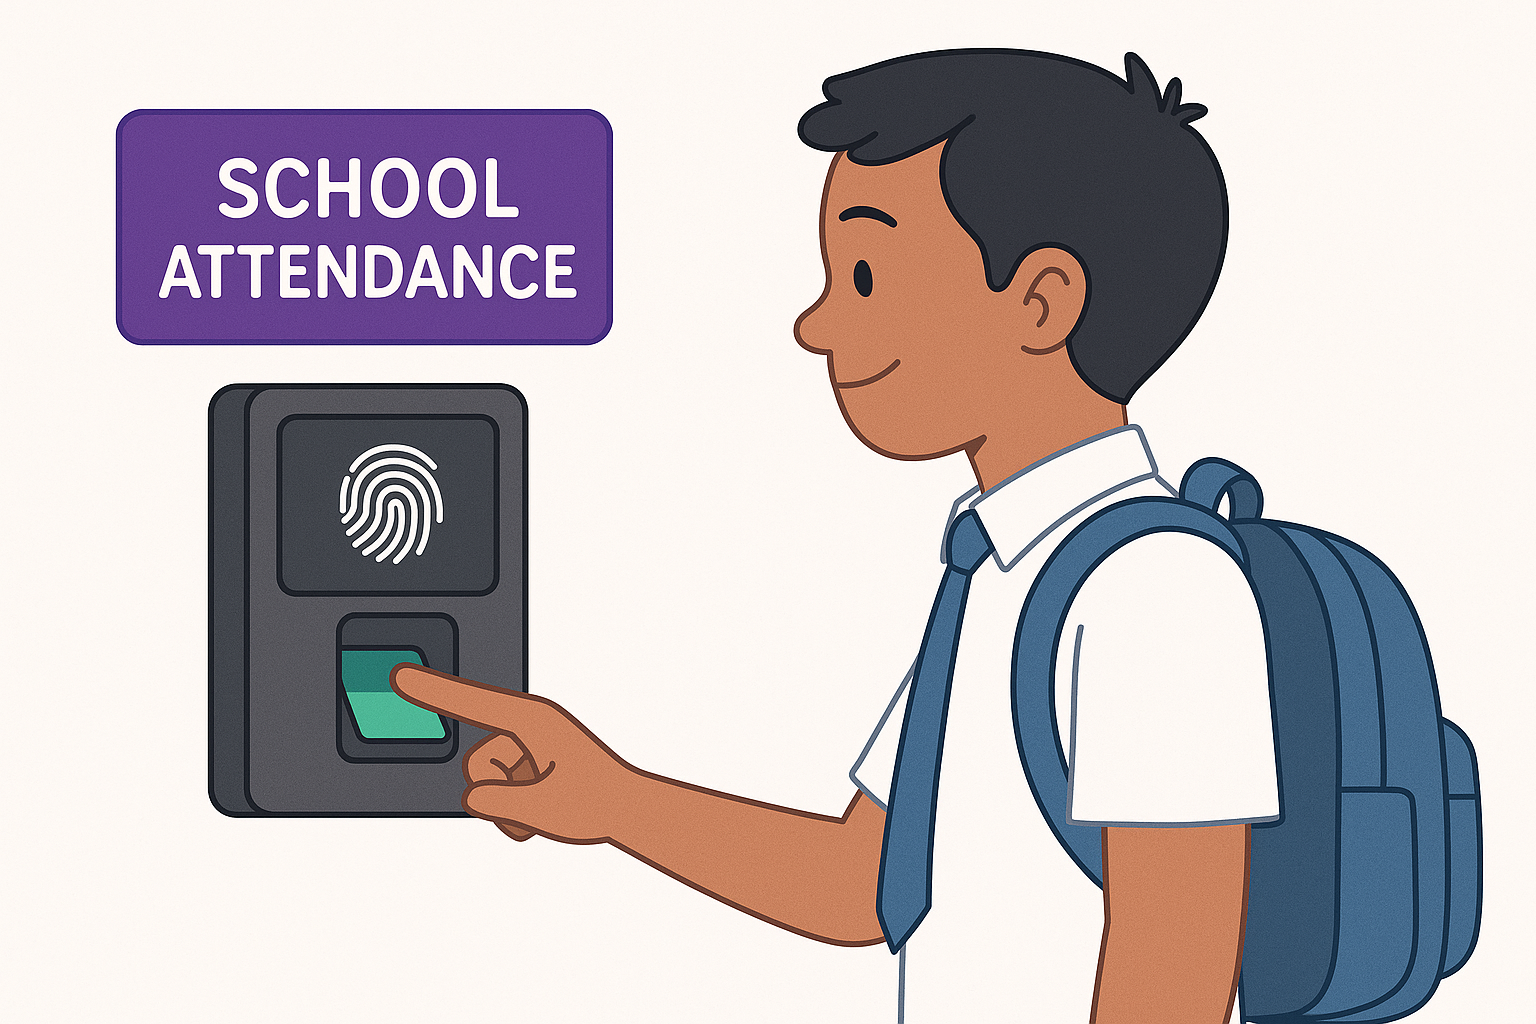
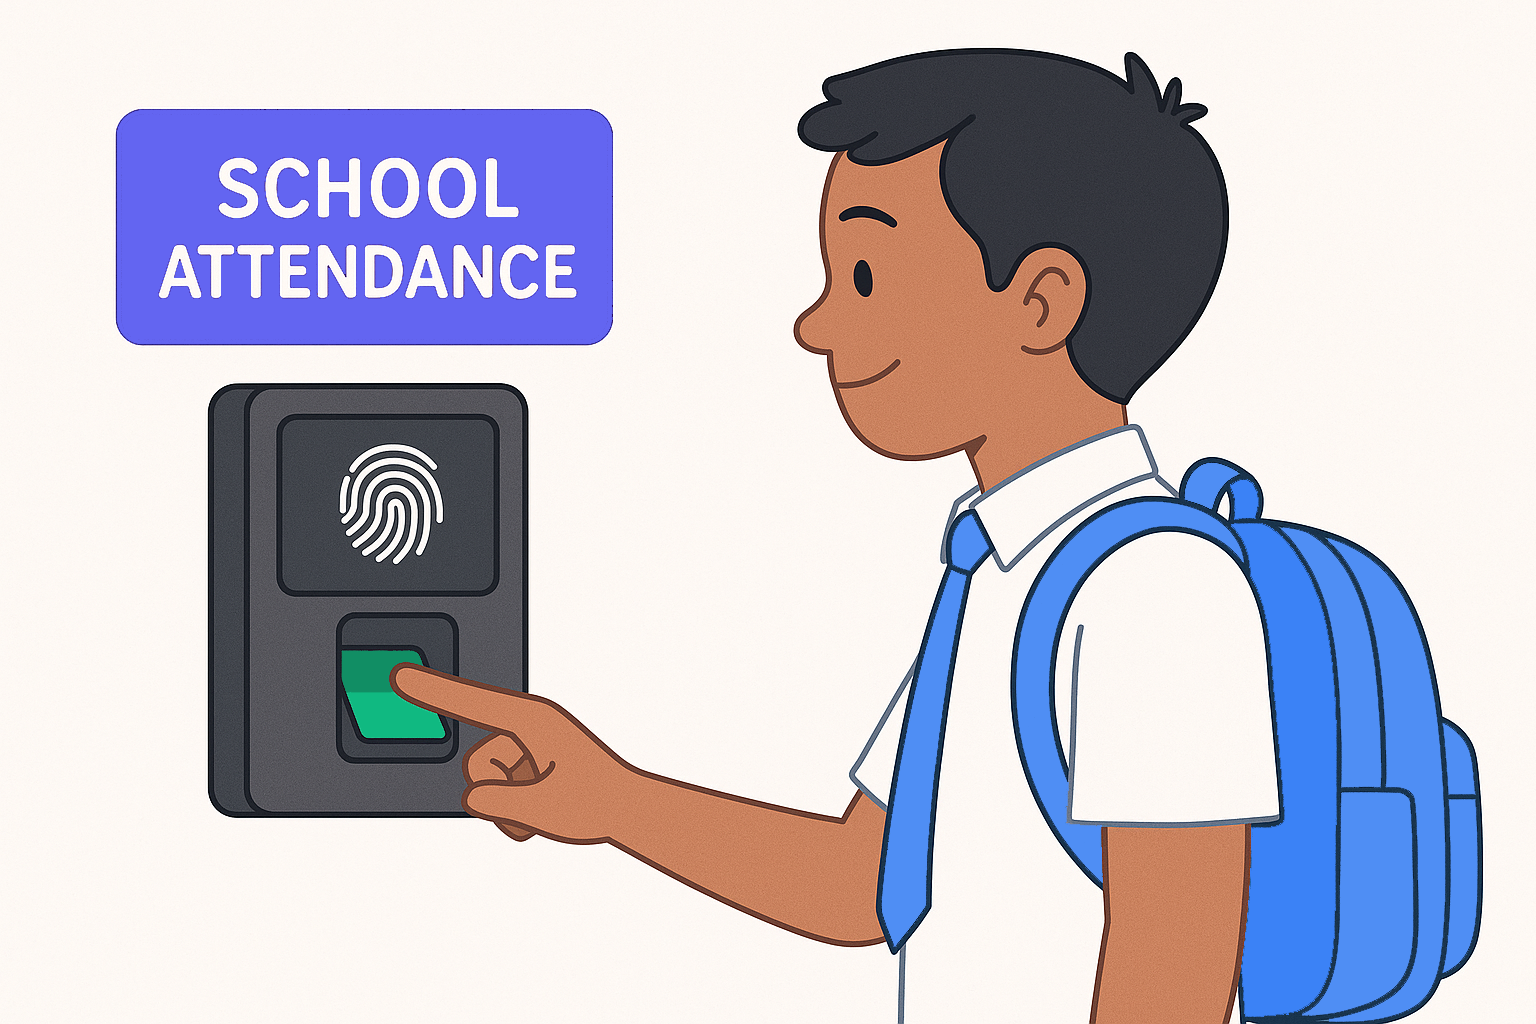
update

diff --git a/src/pages/public/LandingPage.tsx b/src/pages/public/LandingPage.tsx
@@ -50,7 +50,7 @@ const LandingPage = () => {
                                 <Button
                                     label="Daftar"
                                     type="button"
-                                    onClick={() => navigate('/register')}
+                                    onClick={() => navigate('/login')}
                                     outlined
                                 />
                             </div>
@@ -118,8 +118,8 @@ const LandingPage = () => {
                                 <div className="text-600">Untuk sekolah dengan kebutuhan dasar presensi.</div>
                                 <hr className="my-3 mx-0 border-top-1 border-bottom-none border-300" />
                                 <div className="flex align-items-center">
-                                    <span className="font-bold text-2xl text-900">$9</span>
-                                    <span className="ml-2 font-medium text-600">per month</span>
+                                    <span className="font-bold text-2xl text-900">Rp.150.000</span>
+                                    <span className="ml-2 font-medium text-600">per bulan</span>
                                 </div>
                                 <hr className="my-3 mx-0 border-top-1 border-bottom-none border-300" />
                                 <ul className="list-none p-0 m-0 flex-grow-1">
@@ -145,8 +145,8 @@ const LandingPage = () => {
                                 <div className="text-600">Untuk sekolah yang membutuhkan fitur presensi lebih canggih.</div>
                                 <hr className="my-3 mx-0 border-top-1 border-bottom-none border-300" />
                                 <div className="flex align-items-center">
-                                    <span className="font-bold text-2xl text-900">$29</span>
-                                    <span className="ml-2 font-medium text-600">per month</span>
+                                    <span className="font-bold text-2xl text-900">Rp.300.000</span>
+                                    <span className="ml-2 font-medium text-600">per bulan</span>
                                 </div>
                                 <hr className="my-3 mx-0 border-top-1 border-bottom-none border-300" />
                                 <ul className="list-none p-0 m-0 flex-grow-1">
@@ -180,8 +180,8 @@ const LandingPage = () => {
                                 <div className="text-600">Untuk sekolah besar dengan kebutuhan pengelolaan presensi tingkat lanjut.</div>
                                 <hr className="my-3 mx-0 border-top-1 border-bottom-none border-300" />
                                 <div className="flex align-items-center">
-                                    <span className="font-bold text-2xl text-900">$49</span>
-                                    <span className="ml-2 font-medium text-600">per month</span>
+                                    <span className="font-bold text-2xl text-900">Rp.450.000</span>
+                                    <span className="ml-2 font-medium text-600">per bulan</span>
                                 </div>
                                 <hr className="my-3 mx-0 border-top-1 border-bottom-none border-300" />
                                 <ul className="list-none p-0 m-0 flex-grow-1">

diff --git a/src/pages/admin/school-management/AdminSchoolPage.tsx b/src/pages/admin/school-management/AdminSchoolPage.tsx
@@ -3,7 +3,6 @@ import { useEffect, useState } from 'react';
 import { DataTable } from 'primereact/datatable';
 import { Column } from 'primereact/column';
 import { Button } from 'primereact/button';
-import { InputText } from 'primereact/inputtext';
 import { useNavigate } from 'react-router-dom';
 import AdminCreateSchoolModal from '../../../components/admin/AdminCreateSchoolModal';
 import SchoolService from '../../../services/schoolService';
@@ -157,20 +156,24 @@ const AdminSchoolPage = () => {
                 <Column
                     header="Aksi"
                     body={(rowData) => (
-                        <Button
-                            icon="pi pi-sign-in"
-                            label="Masuk"
-                            loading={schoolLoading}
-                            onClick={async () => {
-                                try {
-                                    localStorage.setItem("targetSchoolId", rowData.id);
-                                    localStorage.setItem("targetSchoolName", formatSchoolName(rowData.name));
-                                    updateUser({ school_id: rowData.id });
-                                } catch (error) {
-                                    console.error("Gagal masuk ke sekolah:", error);
-                                }
-                            }}
-                        />
+                        <div className='flex gap-1'>
+                            <Button
+                                icon="pi pi-sign-in"
+                                label="Masuk"
+                                loading={schoolLoading}
+                                onClick={async () => {
+                                    try {
+                                        localStorage.setItem("targetSchoolId", rowData.id);
+                                        localStorage.setItem("targetSchoolName", formatSchoolName(rowData.name));
+                                        updateUser({ school_id: rowData.id });
+                                    } catch (error) {
+                                        console.error("Gagal masuk ke sekolah:", error);
+                                    }
+                                }}
+                            />
+                            <Button icon="pi pi-trash" severity='danger' label='Hapus' />
+                        </div>
+
 
                     )}
                 />

diff --git a/src/routes.tsx b/src/routes.tsx
@@ -22,7 +22,7 @@ const CustomEventPage = lazy(() => import('./pages/school/dashboard/attendance/S
 const ClassroomListPage = lazy(() => import('./pages/school/dashboard/classgroup/SchoolClassgroupPage'));
 const DefaultAttendanceTimePage = lazy(() => import('./pages/school/dashboard/attendance/SchoolSetAttendanceTimePage'));
 const AbsenceStatusListPage = lazy(() => import('./pages/school/dashboard/attendance/SchoolAbsenceStatusPage'));
-const AdminDashboard = lazy(() => import('./pages/admin/dashboard/MainPage'));
+const AdminDashboard = lazy(() => import('./pages/admin/dashboard/AdminDashboard'));
 const SchoolProfilePage = lazy(() => import('./pages/school/profile/SchoolProfilePage'));
 const PublicLayout = lazy(() => import('./layout/PublicLayout'));
 const LandingPage = lazy(() => import('./pages/public/LandingPage'));

diff --git a/src/routes_lazy.tsx b/src/routes_lazy.tsx
@@ -22,7 +22,7 @@ const CustomEventPage = lazy(() => import('./pages/school/dashboard/attendance/S
 const ClassroomListPage = lazy(() => import('./pages/school/dashboard/classgroup/SchoolClassgroupPage'));
 const DefaultAttendanceTimePage = lazy(() => import('./pages/school/dashboard/attendance/SchoolSetAttendanceTimePage'));
 const AbsenceStatusListPage = lazy(() => import('./pages/school/dashboard/attendance/SchoolAbsenceStatusPage'));
-const AdminDashboard = lazy(() => import('./pages/admin/dashboard/MainPage'));
+const AdminDashboard = lazy(() => import('./pages/admin/dashboard/AdminDashboard'));
 const SchoolProfilePage = lazy(() => import('./pages/school/profile/SchoolProfilePage'));
 const PublicLayout = lazy(() => import('./layout/PublicLayout'));
 const LandingPage = lazy(() => import('./pages/public/LandingPage'));

diff --git a/src/routes_nonlazy.tsx b/src/routes_nonlazy.tsx
@@ -31,7 +31,7 @@ import SchoolUsersPage from './pages/school/dashboard/admin/SchoolUsersPage';
 import FingerprintPage from './pages/school/dashboard/admin/FingerprintRegisterPage';
 import SchoolProfilePage from './pages/school/profile/SchoolProfilePage';
 
-import AdminDashboard from './pages/admin/dashboard/MainPage';
+import AdminDashboard from './pages/admin/dashboard/AdminDashboard';
 import AdminSchoolPage from './pages/admin/school-management/AdminSchoolPage';
 import AdminSubscribtionPage from './pages/admin/subscription/AdminSubscriptionPage';
 

diff --git a/src/pages/admin/dashboard/AdminDashboard.tsx b/src/pages/admin/dashboard/AdminDashboard.tsx
@@ -170,7 +170,7 @@ const AdminDashboard = () => {
                 <div className="col-12">
                     <div className="card flex flex-column align-items-center">
                         <h5 className="text-left w-full">Status Berlangganan</h5>
-                        <Chart type="doughnut" data={subscriptionStatusChart} options={chartOptions} />
+                        <Chart type="pie" data={subscriptionStatusChart} options={chartOptions} />
                     </div>
                 </div>
             </div>

diff --git a/index.html b/index.html
@@ -3,7 +3,7 @@
 
 <head>
   <meta charset="UTF-8" />
-  <link rel="icon" type="image/svg+xml" href="/vite.svg" />
+  <link rel="icon" href="/presentia.ico" type="image/x-icon" />
   <meta name="viewport" content="width=device-width, initial-scale=1.0" />
   <title>Presentia</title>
 </head>
